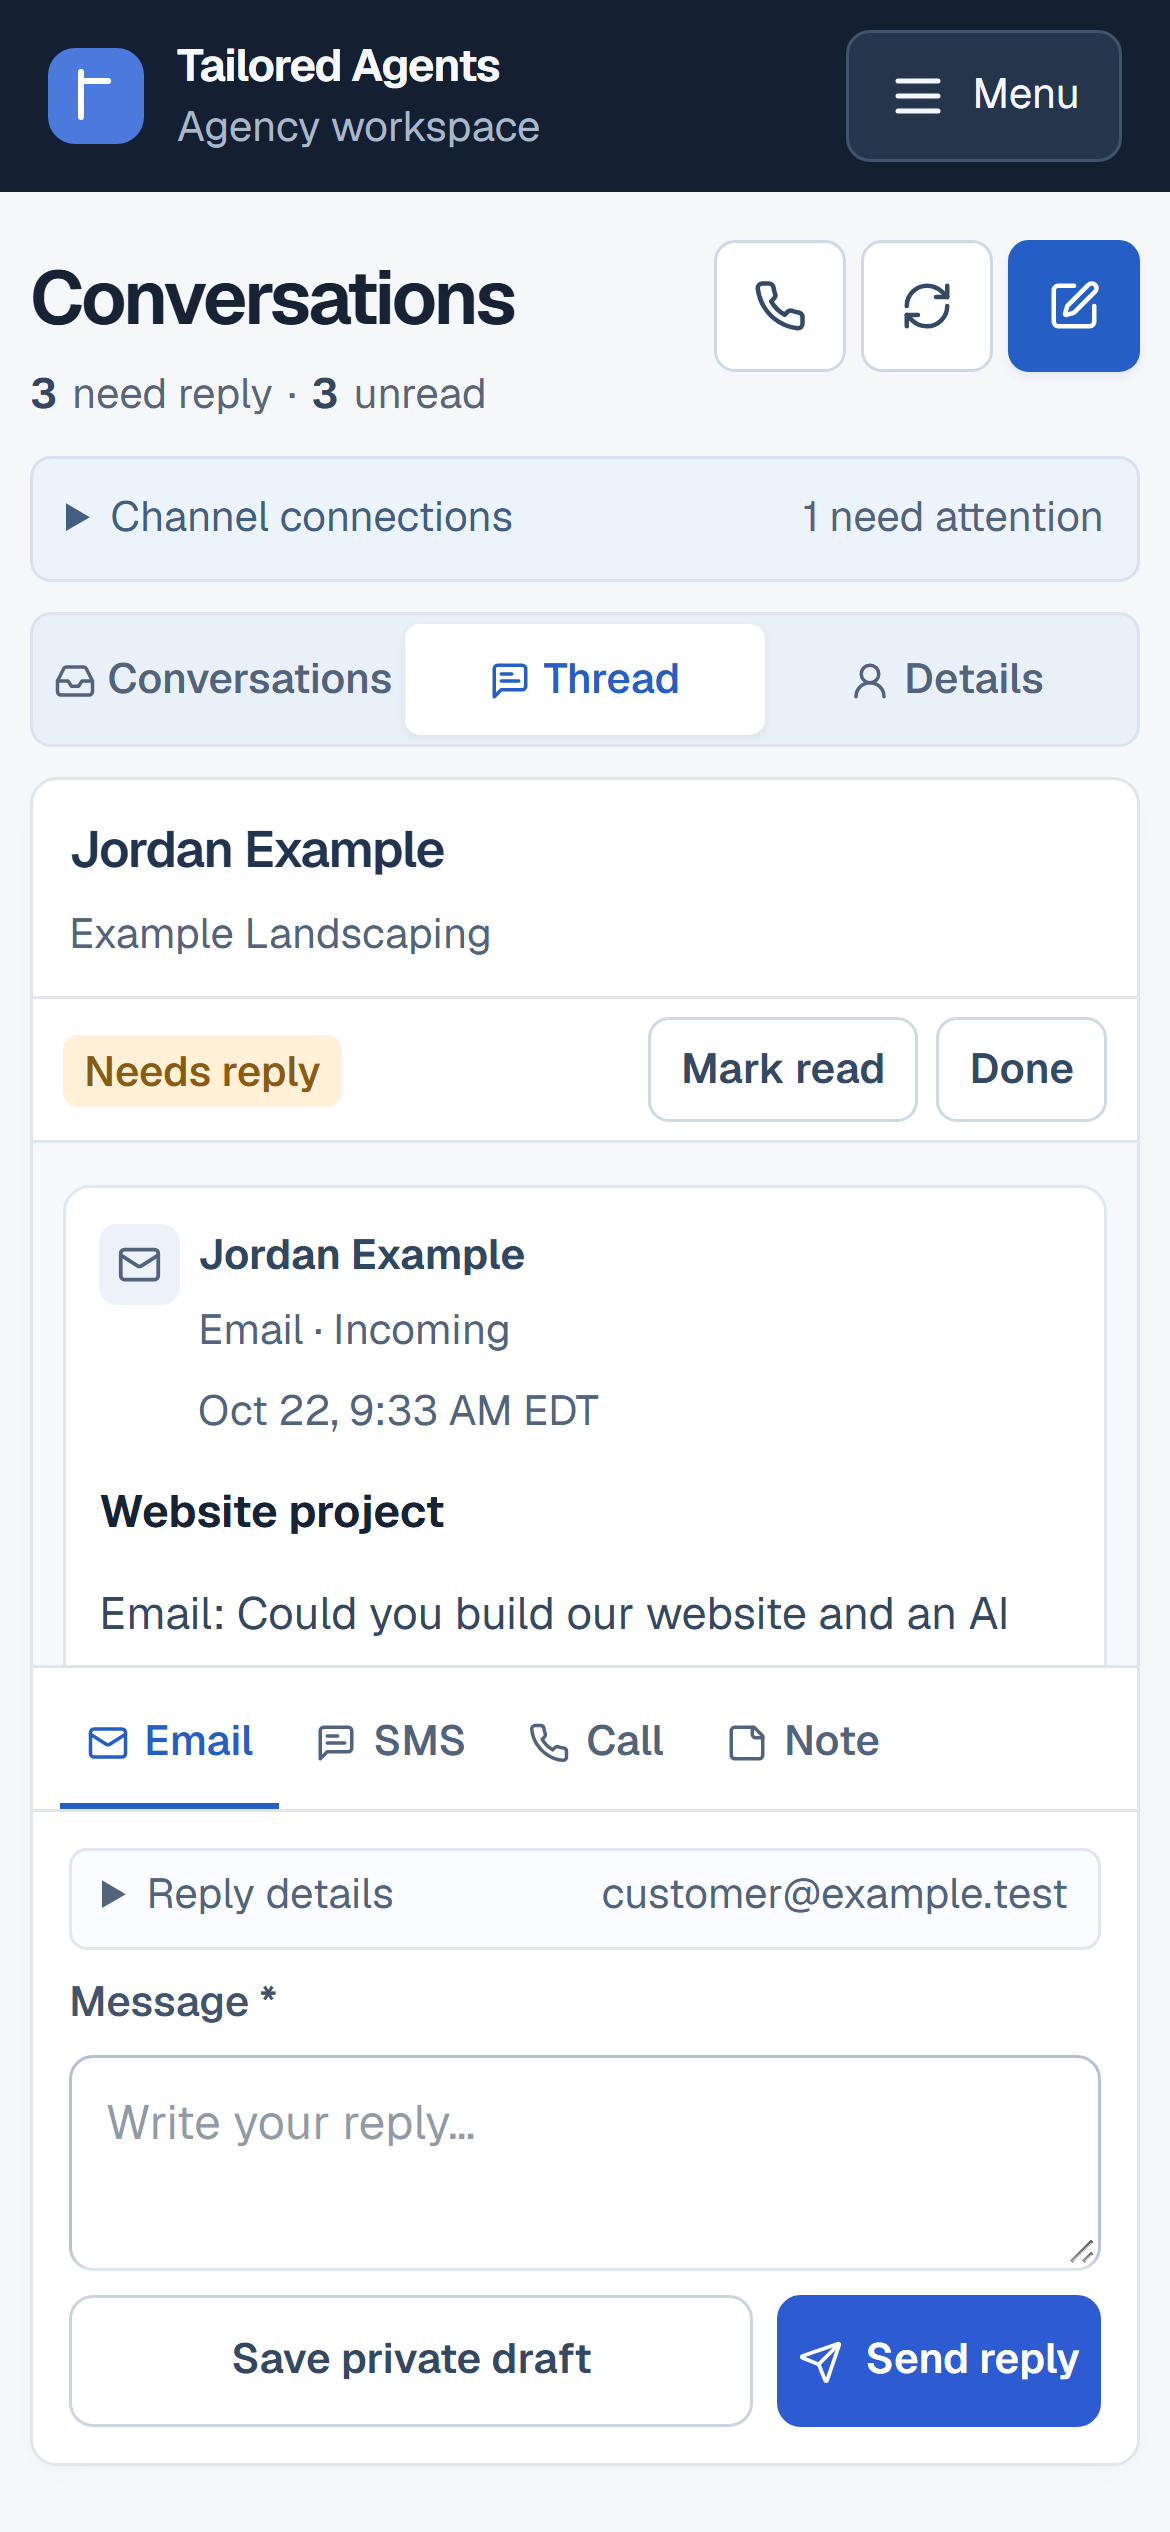
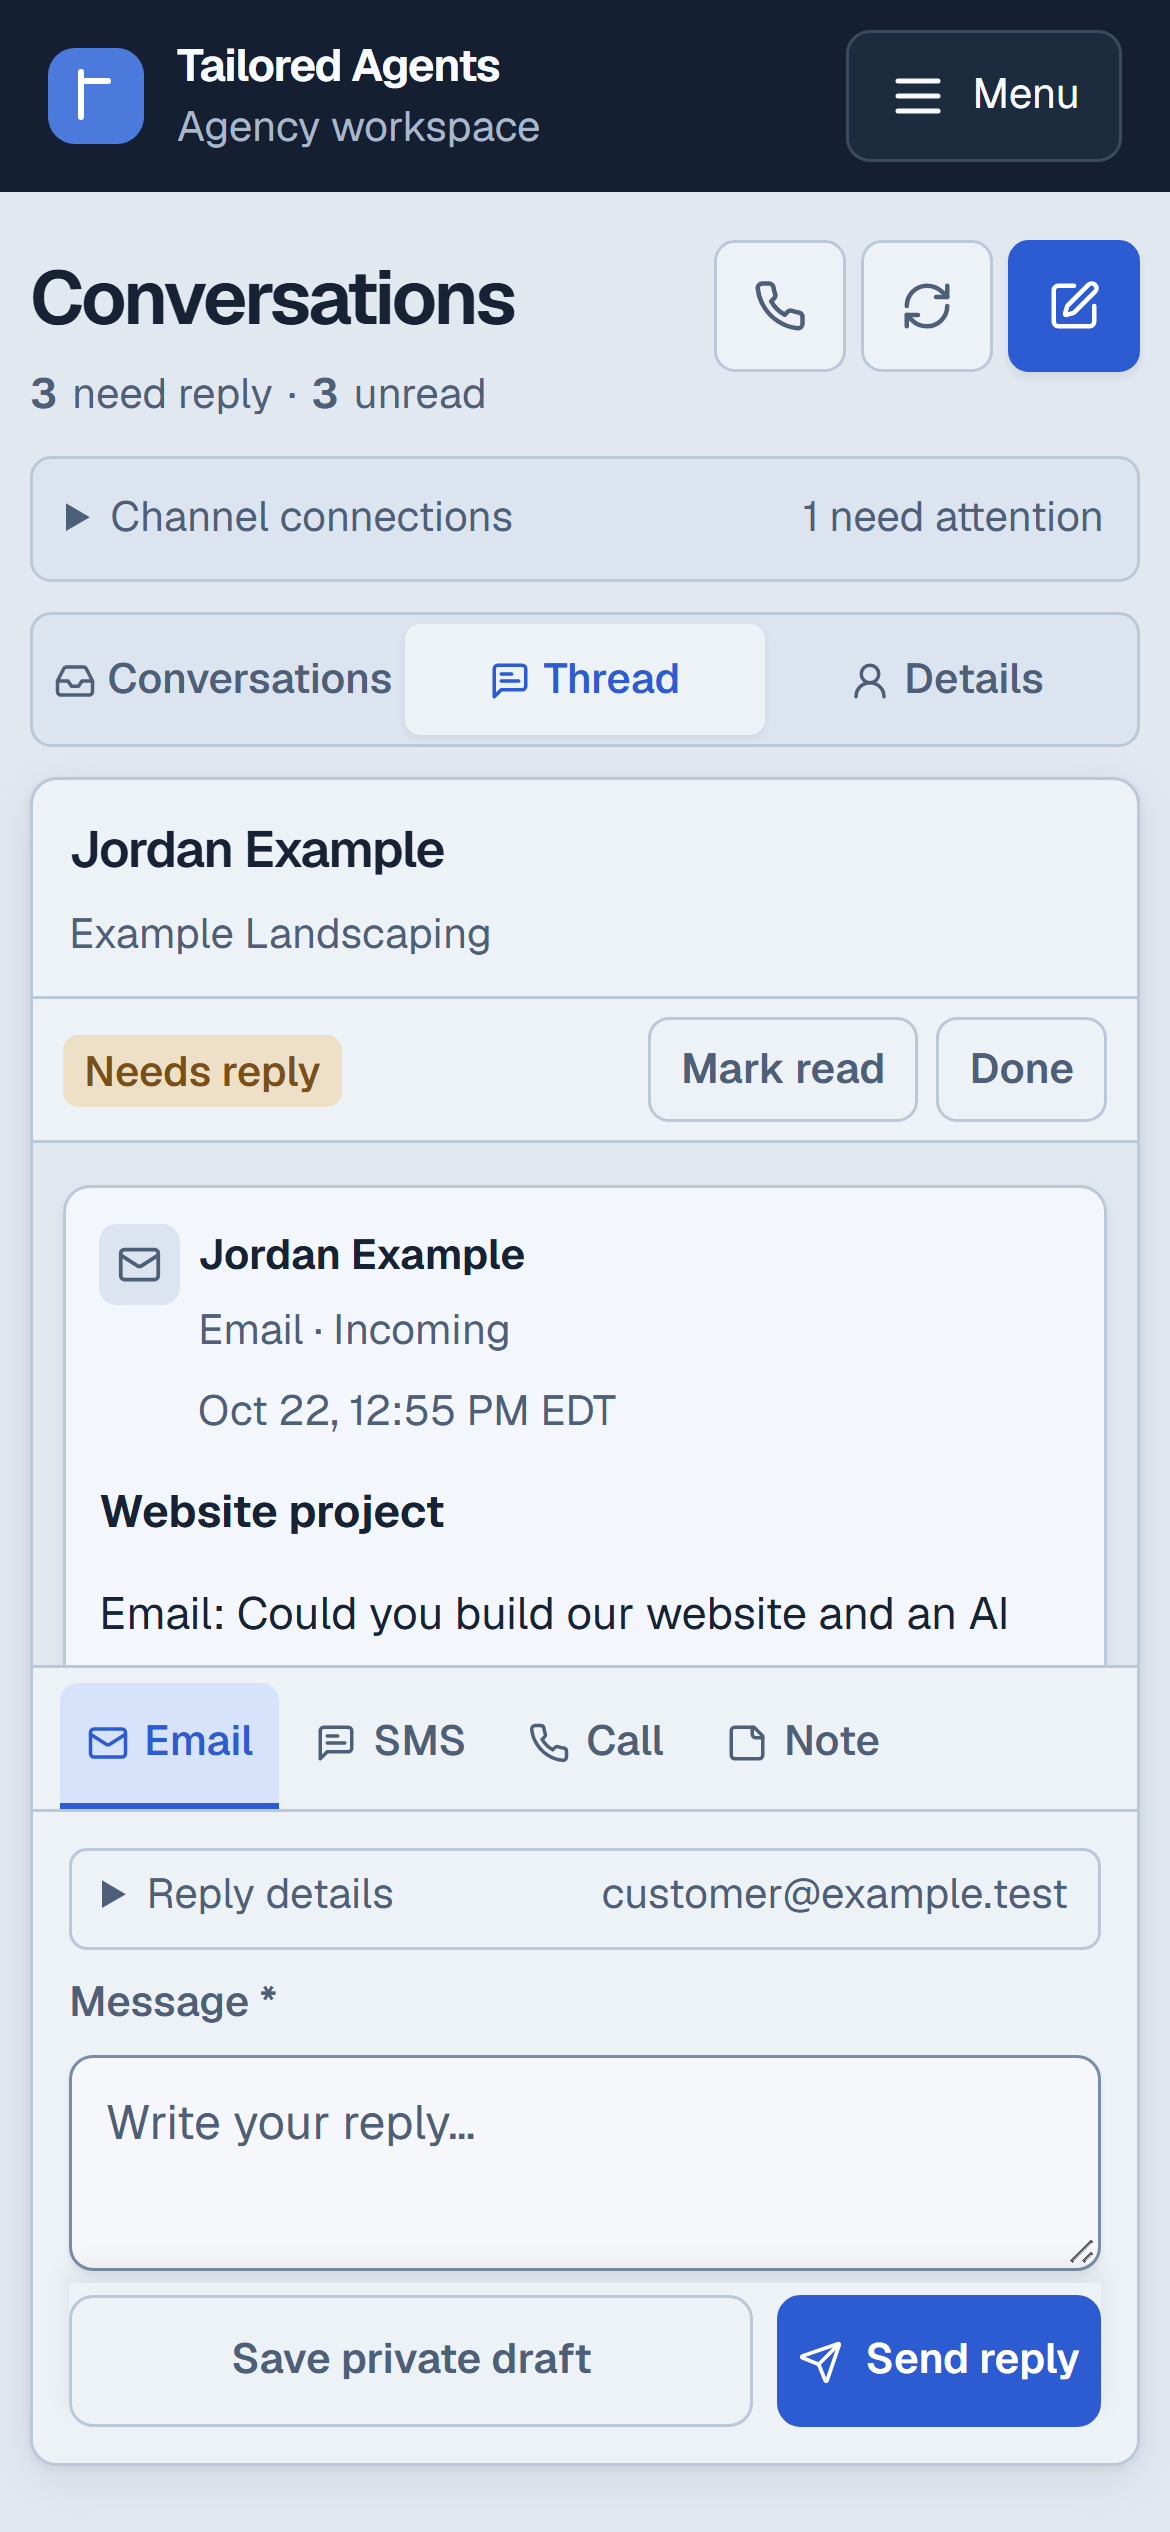
Give Inbox messages and panels distinct solid surfaces

diff --git a/app/dashboard/inbox/conversations.css b/app/dashboard/inbox/conversations.css
@@ -3,6 +3,11 @@
   --conversation-muted: var(--workspace-muted);
   --conversation-line: var(--workspace-line);
   --conversation-blue: var(--workspace-blue);
+  --conversation-panel: light-dark(#e8eef6, #192537);
+  --conversation-history: light-dark(#e2e8f0, #131e2f);
+  --conversation-incoming: light-dark(#f3f6fb, #28364b);
+  --conversation-outgoing: light-dark(#d6e4fc, #284267);
+  --conversation-outgoing-line: light-dark(#9eb7df, #577bb0);
   height: 100dvh;
   min-height: 640px;
   padding: 24px clamp(16px, 2.1vw, 32px);
@@ -50,7 +55,7 @@
 .conversation-frame.is-details-closed { grid-template-columns: minmax(250px, 282px) minmax(320px, 1fr); }
 .conversation-frame.is-details-closed .conversation-details-pane { display: none; }
 .conversation-list-pane, .conversation-thread-pane, .conversation-details-pane { min-width: 0; min-height: 0; }
-.conversation-list-pane { display: flex; flex-direction: column; border-right: 1px solid var(--conversation-line); background: var(--workspace-surface); }
+.conversation-list-pane { display: flex; flex-direction: column; border-right: 1px solid var(--conversation-line); background: var(--conversation-panel); }
 .conversation-queues { flex-shrink: 0; display: grid; grid-template-columns: 1fr 1fr; gap: 4px; padding: 12px; border-bottom: 1px solid var(--conversation-line); }
 .conversation-queues a { display: flex; align-items: center; gap: 6px; min-height: 40px; min-width: 0; padding: 8px 6px; border-radius: 6px; color: var(--workspace-muted); text-decoration: none; font-size: 14px; }
 .conversation-queues a > span { white-space: nowrap; }
@@ -111,20 +116,20 @@
 .conversation-history-pages small { display: block; margin-top: 4px; color: var(--workspace-muted); font-size: 14px; line-height: 1.5; }
 .conversation-history-pages > div:last-child { display: flex; gap: 10px; }
 .conversation-history-pages a { min-height: 34px; display: inline-flex; align-items: center; color: var(--workspace-blue); font-size: 14px; font-weight: 550; }
-.conversation-timeline { min-height: 0; flex: 1; overflow-y: auto; overflow-x: hidden; display: flex; flex-direction: column; gap: 16px; padding: 22px clamp(12px, 1.8vw, 26px); background: var(--workspace-surface); scrollbar-width: thin; overscroll-behavior-y: contain; }
-.conversation-event { flex: 0 0 auto; min-width: 0; width: min(100%, 680px); border: 1px solid var(--workspace-line); border-radius: 9px; padding: 15px 16px 11px; background: var(--workspace-surface); box-shadow: 0 1px 2px var(--workspace-shadow-ink); align-self: flex-start; }
-.conversation-event.is-outbound { align-self: flex-end; background: var(--workspace-surface); border-color: var(--workspace-line); }
+.conversation-timeline { min-height: 0; flex: 1; overflow-y: auto; overflow-x: hidden; display: flex; flex-direction: column; gap: 16px; padding: 22px clamp(12px, 1.8vw, 26px); background: var(--conversation-history); scrollbar-width: thin; overscroll-behavior-y: contain; }
+.conversation-event { --conversation-event-line: var(--workspace-line); flex: 0 0 auto; min-width: 0; width: min(100%, 680px); border: 1px solid var(--conversation-event-line); border-radius: 9px; padding: 15px 16px 11px; background: var(--conversation-incoming); box-shadow: 0 1px 2px var(--workspace-shadow-ink); align-self: flex-start; }
+.conversation-event.is-outbound { --conversation-event-line: var(--conversation-outgoing-line); align-self: flex-end; background: var(--conversation-outgoing); }
 .conversation-event.is-note { width: 100%; background: var(--workspace-warning-soft); border-color: var(--workspace-line); box-shadow: none; }
 .conversation-event > header { display: flex; align-items: flex-start; gap: 8px; margin-bottom: 13px; }
 .conversation-event-icon { display: grid; place-items: center; flex-shrink: 0; width: 27px; height: 27px; border-radius: 6px; background: var(--workspace-soft); color: var(--workspace-muted); }
 .conversation-event.is-note .conversation-event-icon { background: var(--workspace-warning-soft); color: var(--workspace-warning); }
 .conversation-event > header > div { min-width: 0; }
-.conversation-event > header strong { display: block; color: var(--workspace-muted); font-size: 14px; font-weight: 650; overflow-wrap: anywhere; }
+.conversation-event > header strong { display: block; color: var(--workspace-ink); font-size: 14px; font-weight: 650; overflow-wrap: anywhere; }
 .conversation-event > header div > span { display: block; margin-top: 3px; color: var(--workspace-muted); font-size: 14px; }
 .conversation-event > header time { margin-left: auto; color: var(--workspace-muted); font-size: 14px; text-align: right; line-height: 1.4; }
 .conversation-event h3 { margin: 0 0 10px; font-size: 15px; font-weight: 650; line-height: 1.45; overflow-wrap: anywhere; }
-.conversation-message-text { white-space: pre-wrap; overflow-wrap: anywhere; color: var(--workspace-muted); font-size: 15px; line-height: 1.7; }
-.conversation-event > footer { display: flex; flex-wrap: wrap; align-items: center; justify-content: space-between; gap: 6px; margin-top: 13px; padding-top: 9px; border-top: 1px solid var(--workspace-line); color: var(--workspace-muted); font-size: 14px; overflow-wrap: anywhere; }
+.conversation-message-text { white-space: pre-wrap; overflow-wrap: anywhere; color: var(--workspace-ink); font-size: 15px; line-height: 1.7; }
+.conversation-event > footer { display: flex; flex-wrap: wrap; align-items: center; justify-content: space-between; gap: 6px; margin-top: 13px; padding-top: 9px; border-top: 1px solid var(--conversation-event-line); color: var(--workspace-muted); font-size: 14px; overflow-wrap: anywhere; }
 .conversation-event > footer p { width: 100%; margin: 0; }
 .conversation-event.is-note > footer { border-color: var(--workspace-line); color: var(--workspace-warning); }
 .conversation-delivery { color: var(--workspace-muted); }
@@ -164,7 +169,7 @@
 .conversation-channel-empty { display: flex; flex-direction: column; align-items: flex-start; gap: 10px; padding: 22px; color: var(--workspace-muted); }
 .conversation-channel-empty p { margin: 0; line-height: 1.6; }
 .conversation-channel-empty small { font-size: 14px; line-height: 1.6; }
-.conversation-details-pane { border-left: 1px solid var(--conversation-line); background: var(--workspace-surface); overflow-y: auto; scrollbar-width: thin; }
+.conversation-details-pane { border-left: 1px solid var(--conversation-line); background: var(--conversation-panel); overflow-y: auto; scrollbar-width: thin; }
 .conversation-details-heading { display: flex; align-items: center; justify-content: space-between; gap: 8px; min-height: 57px; padding: 10px 17px; border-bottom: 1px solid var(--conversation-line); }
 .conversation-details-heading h2 { margin: 0; color: var(--workspace-muted); font-size: 14px; font-weight: 600; }
 .conversation-details-heading button { display: none; }

diff --git a/tests/conversations/conversations.spec.ts b/tests/conversations/conversations.spec.ts
@@ -78,12 +78,20 @@ test("combines customer history and exposes agency context in a responsive works
   await expect(page.getByRole("button",{name:"Send reply",exact:true})).toBeInViewport();
   await expect(timeline.getByText("Email: Could you build our website and an AI receptionist?",{exact:true})).toBeInViewport();
   await page.screenshot({path: dashboardPreviewPath(`conversations-${info.project.name}.png`),fullPage:true,style:"nextjs-portal{display:none!important;}"});
+  if (info.project.name === "phone") {
+    for (const name of ["Conversations", "Details"] as const) {
+      await pane(page, name);
+      await page.locator(".conversation-details-pane").evaluate(node=>{node.scrollTop=0;});
+      await page.screenshot({path: dashboardPreviewPath(`conversations-${name.toLowerCase()}-phone.png`),style:"nextjs-portal{display:none!important;}"});
+    }
+    await pane(page, "Thread");
+  }
   const axe=await new AxeBuilder({page}).withTags(["wcag2a","wcag2aa","wcag21aa"]).analyze();
   expect(axe.violations.map(v=>({id:v.id,nodes:v.nodes.map(n=>({target:n.target,message:n.failureSummary}))}))).toEqual([]);
   expect(errors).toEqual([]);
 });
 
-test("keeps draft text across channel changes and sends from the same selected customer",async({page,request})=>{
+test("keeps draft text across channel changes and sends from the same selected customer",async({page,request},info)=>{
   await signIn(page);const id=await combine(page,request);
   await page.getByRole("tab",{name:"Email",exact:true}).click();
   const email=page.getByRole("tabpanel",{name:"Email",exact:true});
@@ -93,6 +101,7 @@ test("keeps draft text across channel changes and sends from the same selected c
   if (mobile) await menu.click();
   await page.getByLabel("Appearance", { exact: true }).selectOption("light");
   await page.getByLabel("Appearance", { exact: true }).selectOption("dark");
+  await page.getByLabel("Appearance", { exact: true }).selectOption(process.env.DASHBOARD_TEST_THEME || "light");
   if (mobile) await page.getByRole("button", { name: "Close menu", exact: true }).click();
   await expect(email.getByRole("textbox",{name:"Message *",exact:true})).toHaveValue("Email draft to the customer.");
   await page.getByRole("tab",{name:"SMS",exact:true}).click();
@@ -112,6 +121,8 @@ test("keeps draft text across channel changes and sends from the same selected c
   await expect(sms.locator('[name="permissionConfirmed"], [name="permissionEvidence"]')).toHaveCount(0);
   await sms.getByRole("button",{name:"Send text",exact:true}).click();
   await expect(page.getByRole("region",{name:"Conversation timeline",exact:true}).getByText("Text draft to the customer.",{exact:true})).toBeVisible();
+  await page.locator(".conversation-details-pane").evaluate(node=>{node.scrollTop=0;});
+  await page.screenshot({path: dashboardPreviewPath(`conversations-outgoing-${info.project.name}.png`),style:"nextjs-portal{display:none!important;}"});
   await page.getByRole("tab",{name:"Email",exact:true}).click();
   await expect(email.getByRole("textbox",{name:"Message *",exact:true})).toHaveValue("A new email draft after the confirmed send.");
   const state=await control(request,"inspect");expect(state.emailSends).toBe(1);expect(state.smsCreates).toHaveLength(1);

diff --git a/app/dashboard/polish.css b/app/dashboard/polish.css
@@ -179,7 +179,12 @@
 .dashboard-shell .conversation-composer-tabs { background: var(--workspace-surface); border-color: var(--workspace-line); }
 .dashboard-shell .conversation-queues a { color: var(--workspace-muted); }
 .dashboard-shell .conversation-queues a.is-active { color: var(--workspace-blue); background: var(--workspace-blue-soft); }
-.dashboard-shell .conversation-event { border-color: var(--workspace-line); border-radius: 9px; box-shadow: none; }
+.dashboard-shell .conversation-event { border-color: var(--conversation-event-line); border-radius: 9px; box-shadow: 0 2px 5px var(--workspace-shadow-ink); }
+.dashboard-shell .conversation-event.is-note { box-shadow: none; }
+.dashboard-shell .conversation-workspace :is(.inbox-field,.voice-field,.conversation-field,.dashboard-field) :is(input,select,textarea),
+.dashboard-shell .conversation-workspace .conversation-search label,
+.dashboard-shell .conversation-workspace .conversation-source-picker select { background: var(--workspace-field); color: var(--workspace-ink); }
+.dashboard-shell .conversation-composer-tabs button[aria-selected="true"] { background: var(--workspace-blue-soft); border-radius: 6px 6px 0 0; }
 .dashboard-shell .inbox-page-header h1 { color: var(--workspace-ink); font-size: 30px; font-weight: 650; }
 .dashboard-shell .inbox-setup { border-radius: 12px; border-color: var(--workspace-line); background: var(--workspace-surface); box-shadow: var(--workspace-shadow); }
 .voice-phone-panel { border-color: var(--workspace-line); border-radius: 14px; box-shadow: 0 12px 48px var(--workspace-shadow-ink); }

diff --git a/docs/UNIFIED_INBOX.md b/docs/UNIFIED_INBOX.md
@@ -4,6 +4,8 @@ Updated October 21, 2026 after the owner asked us to inspect Wholesale's actual 
 
 October 22 source update: the **Call** composer, persistent dashboard browser phone, signed incoming staff routing, call history and protected voicemail now extend this same conversation model. Voice sources use explicit line grants independent of SMS. See [VOICE_SETUP.md](VOICE_SETUP.md) for implemented behavior, owner activation, test limits and remaining recording/transcript work. References below to calling as a future increment describe the original design sequence.
 
+October 22 visual refinement: incoming messages now use an opaque light slate card (raised slate in dark mode), outgoing messages use a distinct soft blue, and the timeline has a deeper background. Sender names and message bodies use the primary text color. Conversation lists and customer details have separate panel shading; search, reply and context fields have solid input surfaces, and the selected channel has a filled tab. Internal notes keep their warm team-only treatment. These changes apply to the shared Inbox, including email, SMS and call events, without changing sending or permissions. Existing synthetic desktop/phone workspace, draft/send and accessibility checks passed in both themes (eight cases); lint, TypeScript and the production build passed. No real messages or calls were made. Updated previews: [incoming](previews/conversations-desktop.png), [outgoing](previews/conversations-outgoing-desktop.png), [dark outgoing](previews/themes/dark/providers/conversations-outgoing-desktop.png).
+
 ## What the owner meant
 
 Open a lead or customer conversation and see the whole relationship: texts, emails, incoming/outgoing calls, voicemail, recordings, transcripts and internal notes. Choose how to respond inside that conversation. Ownership, follow-ups and CRM context stay with the relationship when the response channel changes.
